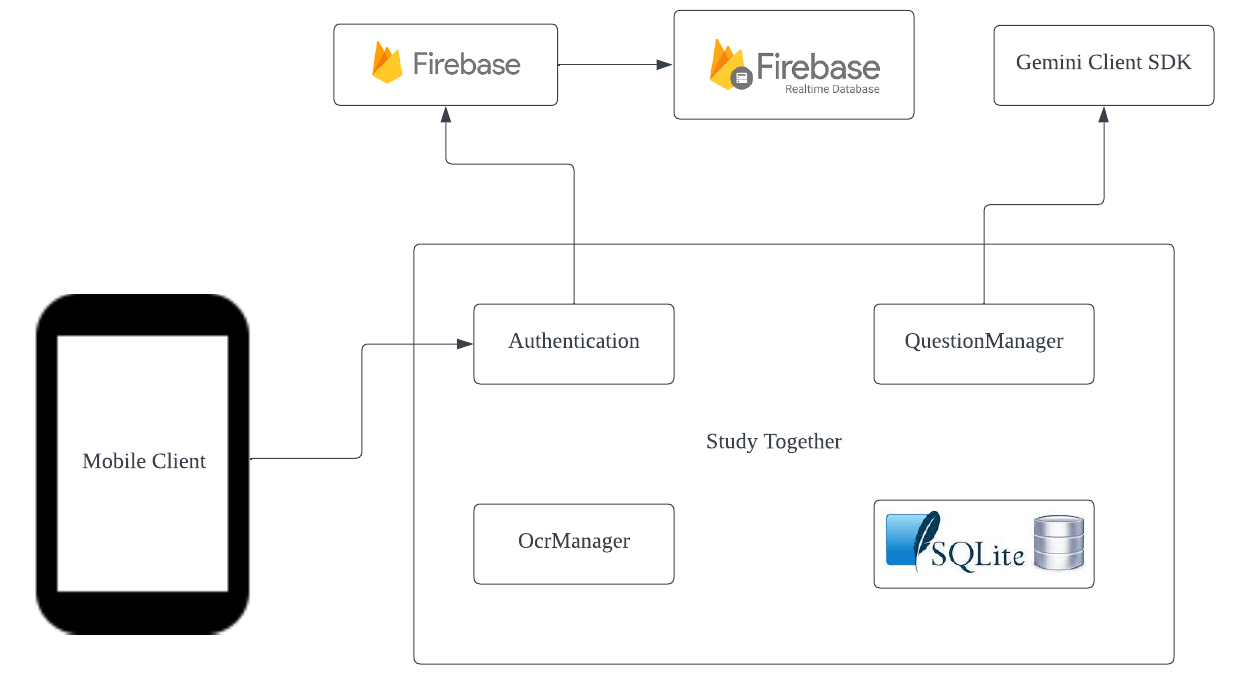
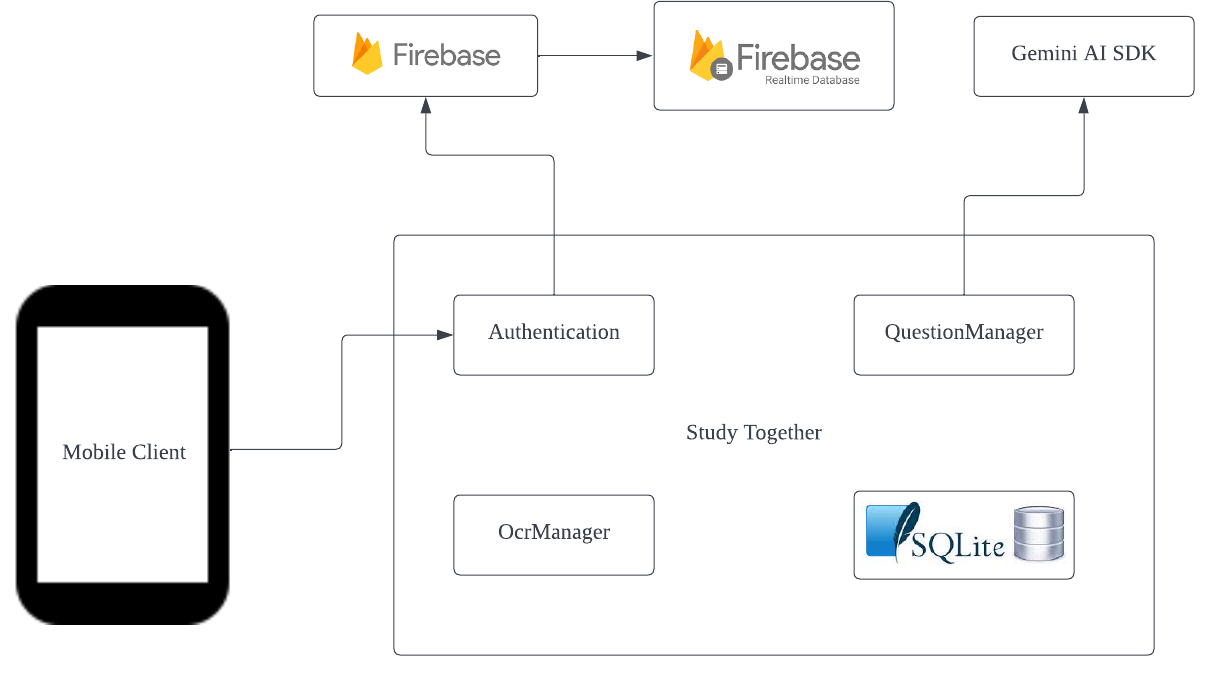
Changes from papeeria

diff --git a/Sections/Backlogs.tex b/Sections/Backlogs.tex
@@ -2,45 +2,56 @@
 
 \section{Product Backlog}\label{product_backlog}
 
-\begin{table}[h]
-    \centering
-    \caption*{Product Backlog}
-    \begin{tabular}{|c|p{8cm}|c|}
-        \hline
-        \textbf{ID} & \textbf{User Story} & \textbf{Priority} \\
-        \hline
-        1 & Efficient Assistance for Challenging Concepts: Users can post questions and receive timely responses, facilitating efficient learning support. & High \\
-        \hline
-        2 & Comprehensive Learning Resources: The platform provides accessible and personalized learning resources, catering to diverse learning styles. & High \\
-        \hline
-        3 & Collaborative Peer Support: A space for meaningful academic discussions and peer support, fostering a sense of community. & Medium \\
-        \hline
-        4 & Seamless Collaborative Learning: Users can effortlessly form study groups, participate in discussions, and collaborate on academic tasks. & Medium \\
-        \hline
-        5 & Effective Time Management: Integration of a dedicated time management tool with features like task tracking, study logs, and personalized study plans. & Low \\
-        \hline
-        6 & Sign-in Functionality: Users should be able to sign in to the platform securely. & High \\
-        \hline
-        7 & Account Creation Feature: A user-friendly process for creating new accounts. & Medium \\
-        \hline
-        8 & Password Reset Capability: Users should have the option to reset their passwords. & Low \\
-        \hline
-        9 & User Profile Management: Users can edit and manage their profiles, enhancing personalization. & Medium \\
-        \hline
-        10 & Notification System: Implement a notification system to alert users about responses, updates, and relevant information. & Medium \\
-        \hline
-        11 & Voting Mechanism: Introduce a sophisticated voting system for assessing and prioritizing responses. & High \\
-        \hline
-        12 & Tag Subscription (Following): Users can subscribe to specific tags for a personalized feed of questions. & Medium \\
-        \hline
-        13 & Explore Page: A curated page showcasing a collection of questions for users to explore. & Low \\
-        \hline
-        14 & Camera Functionality: Integration of video and picture capabilities for visual content sharing. & Medium \\
-        \hline
-        15 & OCR Integration: Implement Optical Character Recognition (OCR) for efficient conversion of printed or handwritten text into digital content. & Low \\
-        \hline
-    \end{tabular}
-\end{table}
+\begin{longtable}{|c|p{8cm}|c|}
+    \caption*{Product Backlog} \\
+    \hline
+    \textbf{ID} & \textbf{User Story} & \textbf{Priority} \\
+    \hline
+    \endfirsthead
+    
+    \multicolumn{3}{c}%
+    {{\bfseries \tablename\ \thetable{} -- continued from previous page}} \\
+    \hline
+    \textbf{ID} & \textbf{User Story} & \textbf{Priority} \\
+    \hline
+    \endhead
+
+    \hline \multicolumn{3}{|r|}{{Continued on next page}} \\ \hline
+    \endfoot
+
+    \hline \hline
+    \endlastfoot
+
+    1 & Efficient Assistance for Challenging Concepts: Users can post questions and receive timely responses, facilitating efficient learning support. & High \\
+    \hline
+    2 & Comprehensive Learning Resources: The platform provides accessible and personalized learning resources, catering to diverse learning styles. & High \\
+    \hline
+    3 & Collaborative Peer Support: A space for meaningful academic discussions and peer support, fostering a sense of community. & Medium \\
+    \hline
+    4 & Seamless Collaborative Learning: Users can effortlessly form study groups, participate in discussions, and collaborate on academic tasks. & Medium \\
+    \hline
+    5 & Effective Time Management: Integration of a dedicated time management tool with features like task tracking, study logs, and personalized study plans. & Low \\
+    \hline
+    6 & Sign-in Functionality: Users should be able to sign in to the platform securely. & High \\
+    \hline
+    7 & Account Creation Feature: A user-friendly process for creating new accounts. & Medium \\
+    \hline
+    8 & Password Reset Capability: Users should have the option to reset their passwords. & Low \\
+    \hline
+    9 & User Profile Management: Users can edit and manage their profiles, enhancing personalization. & Medium \\
+    \hline
+    10 & Notification System: Implement a notification system to alert users about responses, updates, and relevant information. & Medium \\
+    \hline
+    11 & Voting Mechanism: Introduce a sophisticated voting system for assessing and prioritizing responses. & High \\
+    \hline
+    12 & Tag Subscription (Following): Users can subscribe to specific tags for a personalized feed of questions. & Medium \\
+    \hline
+    13 & Explore Page: A curated page showcasing a collection of questions for users to explore. & Low \\
+    \hline
+    14 & Camera Functionality: Integration of video and picture capabilities for visual content sharing. & Medium \\
+    \hline
+    15 & OCR Integration: Implement Optical Character Recognition (OCR) for efficient conversion of printed or handwritten text into digital content. & Low \\
+\end{longtable}
 
 
 \section{Sprint Backlog}\label{sprint_backlog}
@@ -104,5 +115,3 @@
         \hline
     \end{tabular}
 \end{table}
-
-

diff --git a/Sections/Software_Architecture.tex b/Sections/Software_Architecture.tex
@@ -1,10 +1,12 @@
 \chapter{Software Architecture}\label{software_architecture}
 
-\begin{figure}[h] % Figure at bottom of the page ([b] argument, could be "t" for top or "h" for here)
+\begin{figure}[h]
        \centering
        \includegraphics[scale = .80]{Figures/StudyTogether_Architecture.png}
        \caption{\footnotesize Initial Software Architecture}
        \label{fig2}
 \end{figure}
 
-The figure above depicts the software architecture for our application "Study Together". Our application makes use of the Firebase SDK to use its Authentication and Database service. A QuestionManager Package will contain the core Question and Answer functionality of our program. This Package will make use of 
+The diagram illustrates the software architecture designed for our Android application "Study Together." The application leverages the Firebase SDK to access its Authentication and Database services. Additionally, it utilizes a SQLite database to establish and maintain a local cache derived from the Firebase Database, enhancing the overall performance of the application.
+
+The core of our application is the QuestionManager Package, which encapsulates the core functionality related to questions and answers within the program. This component integrates with Google's Gemini AI API to generate potential answers for user queries and also contains functionality for other users to upload and vote on recommended answers. Moreover, an OcrManager component is incorporated, featuring an Optical Character Recognition (OCR) library. This facilitates the extraction of text or questions from images captured by the camera, enabling users to upload questions seamlessly.
